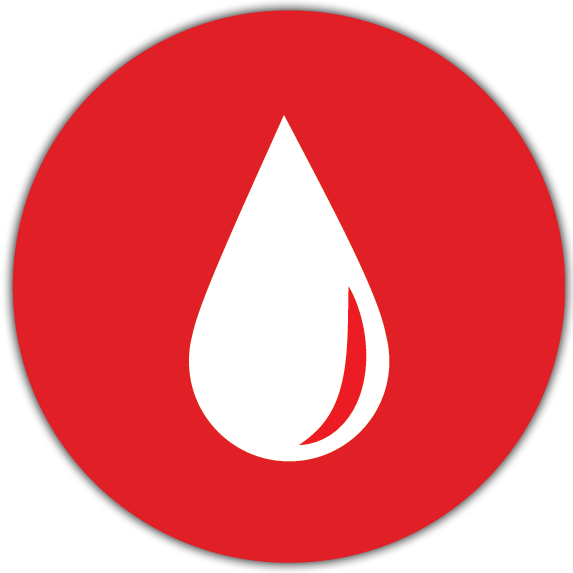
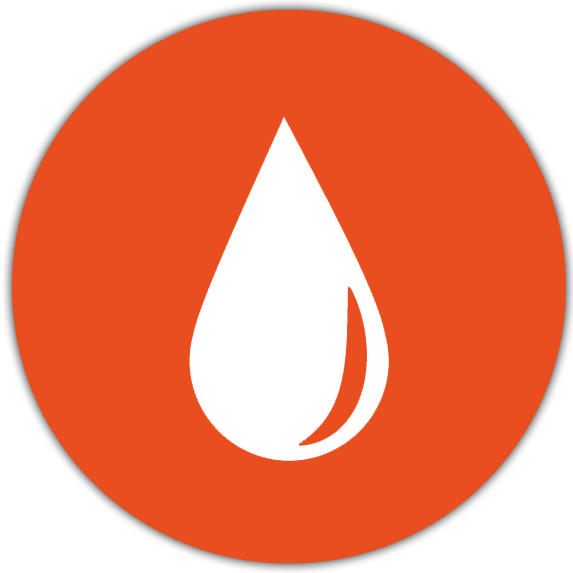
adicionei SOS (esta quase acabado)

diff --git a/Relogio/Apps/Health App/animation (Health App Test).js b/Relogio/Apps/Health App/animation (Health App Test).js
@@ -7,7 +7,7 @@ var ch         = ctx.canvas.height = 210;
 var color      = localStorage.getItem("color");
 
 var diff;
-var sim = setInterval(progressSim, 25);
+var sim = setInterval(progressSim, 5);
 var done = false;
 
 //purposelly left empty this function is used to do nothing
@@ -39,8 +39,6 @@ function progressSim() {
                 ctx.stroke();
                 
                 testResults();
-                document.getElementById('Result').style.visibility = "visible";
-                document.getElementById('Result_Text').style.visibility = "visible";
             }
         }
     }
@@ -87,7 +85,7 @@ function testResults() {
 
         //teste de narcoticos
         case "3":
-            var narcoticos = ["Nao foram\nencontradas\nsubstâncias", "Cannabis", "Ecstasy", "Heroina", "Cocaina", "Anfetaminas", "LSD"];
+            var narcoticos = ["Nao foram\nencontradas\nsubstancias", "Cannabis", "Ecstasy", "Heroina", "Cocaina", "Anfetaminas", "LSD"];
             randomNumber = getRandomArbitrary(0,7).toFixed(0);
             switch(randomNumber) {
                 case "0":
@@ -124,11 +122,27 @@ function testResults() {
     document.getElementById('Result_Text').textContent = resultstring;
     if (goodResult) {
         document.getElementById("Touch_Screen").style.backgroundColor = "#17BF15";      //green +    thumbs up
+        document.getElementById('Result_Text').style.visibility = "visible";
+        document.getElementById('Good').style.visibility = "visible";  
     } else {
         document.getElementById("Touch_Screen").style.backgroundColor = "#DE1F26";      //red
-        document.getElementById("Symbol").src = "Images/warning.png";                   //warning sign
-        document.getElementById("Symbol").style.animation = "pulse 1s ease-in infinite";//add pulsating
+        document.getElementById('Result_Text').style.visibility = "visible";
+        document.getElementById('Warning').style.visibility = "visible";  
+        document.getElementById("Warning").style.animation = "pulse 1s ease-in infinite";//add pulsating
+        window.setTimeout(buttonise, 2100);
     }
+}
+
+function buttonise(){
+    document.getElementById("Warning").style.animation = "morph 0.6s steps(17) 1, enlarge 0.6s ease-in 1";
+    document.getElementById("Warning").style.animationFillMode = "forwards";
+    document.getElementById('Result_Text').style.transform= "translate(0px, 60px)";
+    document.getElementById('Result_Text').style.fontSize = "18px";
+    window.setTimeout(function(){
+        document.getElementById('Warning').style.visibility = "hidden";
+        document.getElementById('Warningfinal').style.visibility = "visible";
+        document.getElementById('Warningfinal').style.transform= "translate(0px, 30px)";
+    }, 600);
 }
 
 function getRandomArbitrary(min, max) {

diff --git a/Relogio/Apps/Health App/style (Health App Test).css b/Relogio/Apps/Health App/style (Health App Test).css
@@ -4,7 +4,34 @@
     left:     3px;
 }
 
-#Result, #Result_Text{
+#Warning{
+    background: url('Images/warningstrip.png');
+    position:    absolute; 
+    width:       50px; 
+    height:      50px;
+    top:         44px;
+    left:        80px;
+    visibility:  hidden;
+    background-repeat: no-repeat;
+    -webkit-animation-fill-mode: forwards;
+    animation-fill-mode: forwards;
+    animation-iteration-count: 1;
+    
+}
+@keyframes morph{   
+    from{ background-position: 0px;}
+    to{ background-position: -850px;}
+}
+@keyframes pulse{
+    25%  {transform: scale(0.9);}
+    75%  {transform: scale(1.1);}
+}
+@keyframes enlarge{
+    0%  {transform: scale(1);}
+    100%  {transform: scale(1.7);}
+}
+
+#Good, #Result_Text{
     position:    absolute; 
     width:       210px; 
     height:      210px;
@@ -23,13 +50,20 @@
     font-weight: 600px;
     font-size:   30px;
     white-space: pre;
+    transition: transform 0.6s, font-size 0.6s;
+}
+
+#Warningfinal{
+    left:        60px;
+    top:         -18px;
+    width:       85px; 
+    height:      85px;
+    position:    absolute; 
+    visibility:  hidden;
+    transition: transform 0.3s;
 }
 
 #Symbol{
     width:       50px; 
     height:      50px;
 }  
-@keyframes pulse{
-    25%  {transform: scale(0.9);}
-    75%  {transform: scale(1.1);}
-  }

diff --git a/Relogio/Apps/Health App/Health App Test.html b/Relogio/Apps/Health App/Health App Test.html
@@ -20,9 +20,11 @@
                     <!-- Loading -->
                     <canvas id="Loading"></canvas>
                     <!-- Result -->
-                    <div id="Result"> 
+                    <div id="Good"> 
                         <img id="Symbol" src="Images/good.png">
+                        <img id="Warningfinal" src="Images/warningfinal.png" onclick="javascript:location.href='https://en.wikipedia.org/wiki/SOS'">
                     </div>
+                    <div id="Warning"></div>
                     <!-- Result Text -->
                     <span id="Result_Text"> place_holder_text</span>
                 </div>
@@ -41,6 +43,7 @@
                 <div id="Button"></div>
             </a>
         </div>
+        
         
         <script src="animation (Health App Test).js"></script>
     </body>

diff --git a/Relogio/Apps/animation (Menu).js b/Relogio/Apps/animation (Menu).js
@@ -1,4 +1,4 @@
-const slider = document.querySelector(".menu")
+const slider = document.querySelector(".menu");
 let isDown = false;
 let startY = 0;
 let scrollTop;
@@ -36,6 +36,7 @@ slider.addEventListener("mousemove", (e) => {
     const y          = e.pageY - slider.offsetTop; 
     const walk       = y - startY;
     slider.scrollTop = scrollTop - walk;
+    clearTimeout(timer);   
 });
 
 slider.addEventListener('scroll', function() {
@@ -46,6 +47,7 @@ slider.addEventListener('scroll', function() {
         anchor2closest();
     }, 50);
 }, false);
+
 
 //changes the image to show that the menu has changed
 function updateProgress() {
@@ -80,4 +82,3 @@ function closest(position){
     }
     return ans;
 }
-

diff --git a/Relogio/Apps/Health App/Health App.html b/Relogio/Apps/Health App/Health App.html
@@ -60,7 +60,7 @@
                         <!-- Blood Sugar Test -->
                         <tr>
                             <th>
-                                <a href="Health App Test.html" onclick="saveTestInfo('#DE1F26', 5)">
+                                <a href="Health App Test.html" onclick="saveTestInfo('#E94E1E', 5)">
                                     <img class="iconApp" draggable="false" src="Images/Blood Sugar Test Icon.png">
                                 </a>
                                 <figcaption class="appSubtitle"> Teste de<br>Glic&eacute;mia </figcaption>
